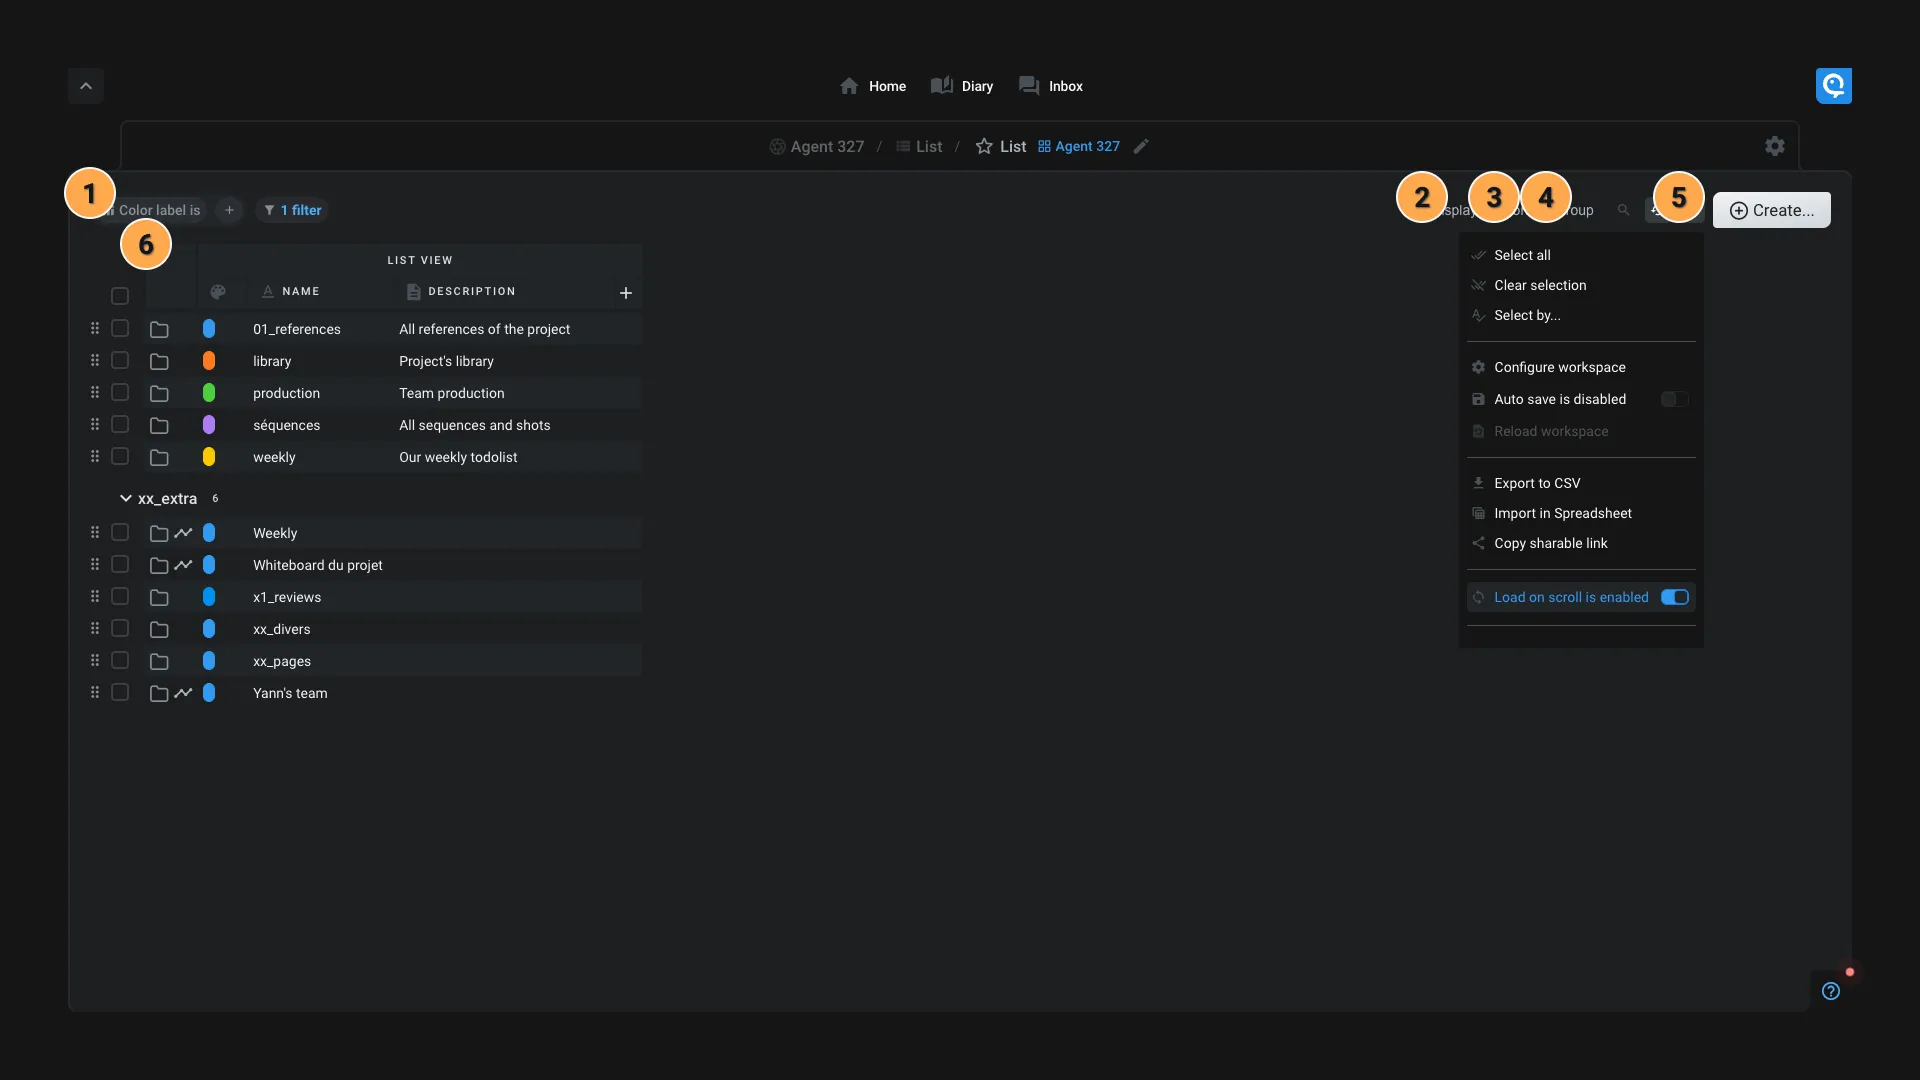
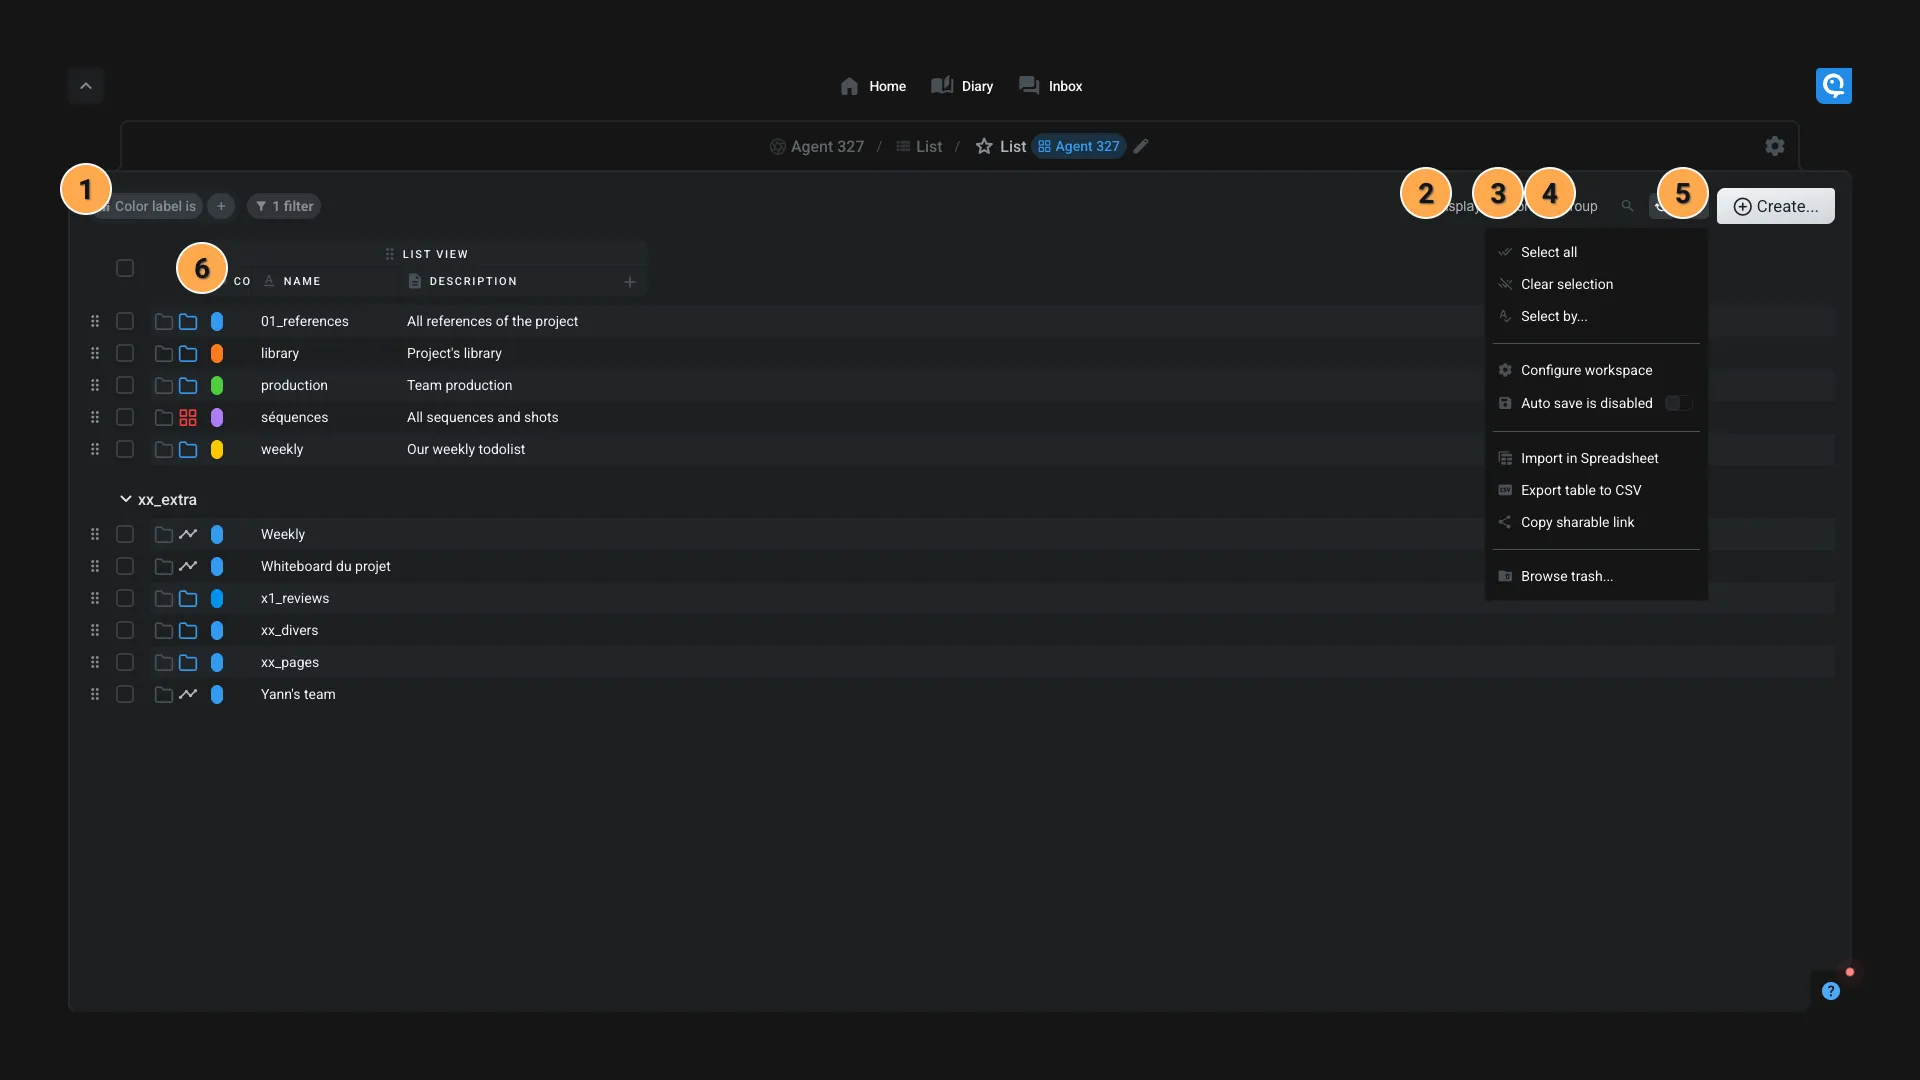
feat(workspaces): Add export to CSV

diff --git a/src/web/workspaces/index.md b/src/web/workspaces/index.md
@@ -181,6 +181,7 @@ In the <span class="aq-icon">more_vert</span> menu, more options are available:
 - **Select by...**: Select items based on criteria. You can also paste names from a spreadsheet that you copied.
 - **Configure workspace**: Launch the [workspaces application](../applications/workspaces.md) to edit it.
 - **Auto save is enabled**: Enable or disable the auto-save feature. When enabled, all changes are saved automatically. The save button have a timer to show you when the next save will occur. Just over it to cancel the auto-save.
+- **Export table to CSV**: Export the current workspace in a CSV file. The export will include all the items displayed in the workspace with their column data.
 - **Import in Spreadsheet**: Copy in the clipboard a special function that you can paste in a Google Spreadsheet to import the data. Please refer to the [Google Spreadsheet integration](../../integrations/spreadsheet.md) for more information.
 - **Copy sharable link**: Copy in the clipboard a link to the current workspace.
 - **Browse trash...**: Open the [trash application](../applications/trash.md) to restore items.
